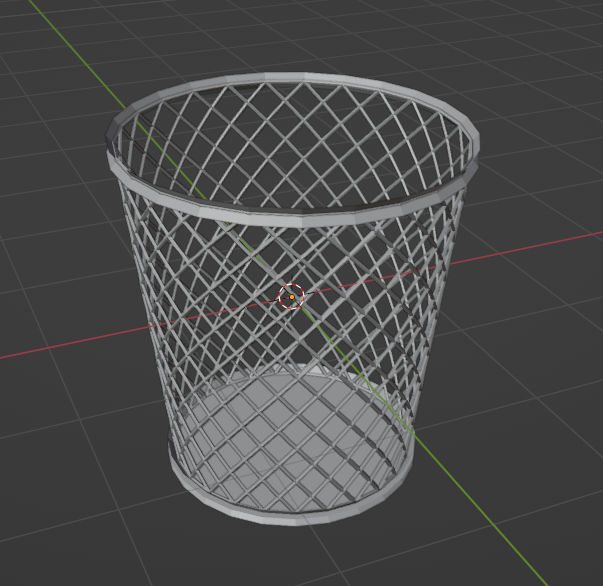
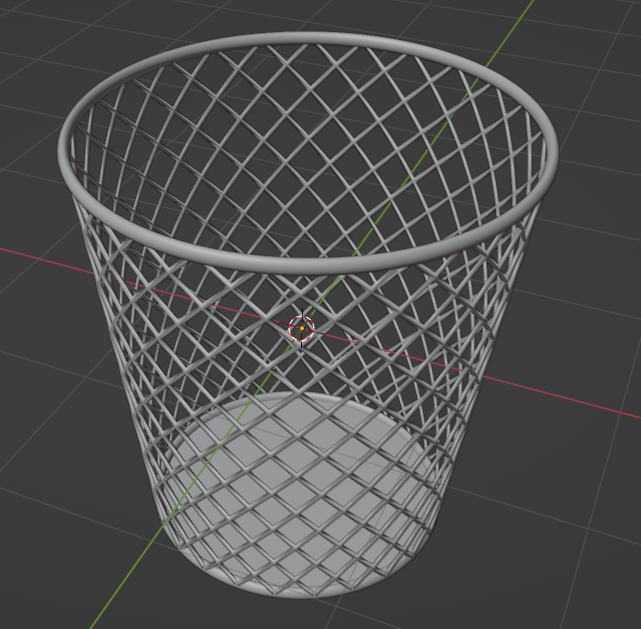
Site updated: 2022-10-20 11:27:49

diff --git a/2022/10/16/修改器/index.html b/2022/10/16/修改器/index.html
@@ -39,8 +39,11 @@
 <meta property="og:image" content="http://example.com/2022/10/16/%E4%BF%AE%E6%94%B9%E5%99%A8/10.png">
 <meta property="og:image" content="http://example.com/2022/10/16/%E4%BF%AE%E6%94%B9%E5%99%A8/11.png">
 <meta property="og:image" content="http://example.com/2022/10/16/%E4%BF%AE%E6%94%B9%E5%99%A8/12.png">
+<meta property="og:image" content="http://example.com/2022/10/16/%E4%BF%AE%E6%94%B9%E5%99%A8/13.png">
+<meta property="og:image" content="http://example.com/2022/10/16/%E4%BF%AE%E6%94%B9%E5%99%A8/14.png">
+<meta property="og:image" content="http://example.com/2022/10/16/%E4%BF%AE%E6%94%B9%E5%99%A8/15.png">
 <meta property="article:published_time" content="2022-10-16T13:07:14.000Z">
-<meta property="article:modified_time" content="2022-10-19T07:27:36.156Z">
+<meta property="article:modified_time" content="2022-10-20T03:27:28.302Z">
 <meta property="article:author" content="一个废物捏">
 <meta property="article:tag" content="Blender">
 <meta name="twitter:card" content="summary">
@@ -121,7 +124,7 @@
       <div class="sidebar-panel-container">
         <!--noindex-->
         <div class="post-toc-wrap sidebar-panel">
-            <div class="post-toc animated"><ol class="nav"><li class="nav-item nav-level-1"><a class="nav-link" href="#%E4%BF%AE%E6%94%B9%E5%99%A8"><span class="nav-number">1.</span> <span class="nav-text">修改器</span></a><ol class="nav-child"><li class="nav-item nav-level-2"><a class="nav-link" href="#%E9%98%B5%E5%88%97%E4%BF%AE%E6%94%B9%E5%99%A8"><span class="nav-number">1.1.</span> <span class="nav-text">阵列修改器</span></a></li><li class="nav-item nav-level-2"><a class="nav-link" href="#%E9%95%9C%E5%83%8F%E4%BF%AE%E6%94%B9%E5%99%A8"><span class="nav-number">1.2.</span> <span class="nav-text">镜像修改器</span></a></li><li class="nav-item nav-level-2"><a class="nav-link" href="#%E5%B8%83%E5%B0%94%E4%BF%AE%E6%94%B9%E5%99%A8"><span class="nav-number">1.3.</span> <span class="nav-text">布尔修改器</span></a></li><li class="nav-item nav-level-2"><a class="nav-link" href="#%E7%BA%BF%E6%A1%86%E4%BF%AE%E6%94%B9%E5%99%A8"><span class="nav-number">1.4.</span> <span class="nav-text">线框修改器</span></a></li></ol></li></ol></div>
+            <div class="post-toc animated"><ol class="nav"><li class="nav-item nav-level-1"><a class="nav-link" href="#%E4%BF%AE%E6%94%B9%E5%99%A8"><span class="nav-number">1.</span> <span class="nav-text">修改器</span></a><ol class="nav-child"><li class="nav-item nav-level-2"><a class="nav-link" href="#%E9%98%B5%E5%88%97%E4%BF%AE%E6%94%B9%E5%99%A8"><span class="nav-number">1.1.</span> <span class="nav-text">阵列修改器</span></a></li><li class="nav-item nav-level-2"><a class="nav-link" href="#%E9%95%9C%E5%83%8F%E4%BF%AE%E6%94%B9%E5%99%A8"><span class="nav-number">1.2.</span> <span class="nav-text">镜像修改器</span></a></li><li class="nav-item nav-level-2"><a class="nav-link" href="#%E5%B8%83%E5%B0%94%E4%BF%AE%E6%94%B9%E5%99%A8"><span class="nav-number">1.3.</span> <span class="nav-text">布尔修改器</span></a></li><li class="nav-item nav-level-2"><a class="nav-link" href="#%E7%BA%BF%E6%A1%86%E4%BF%AE%E6%94%B9%E5%99%A8"><span class="nav-number">1.4.</span> <span class="nav-text">线框修改器</span></a></li><li class="nav-item nav-level-2"><a class="nav-link" href="#%E8%A1%A8%E9%9D%A2%E7%BB%86%E5%88%86%E4%BF%AE%E6%94%B9%E5%99%A8"><span class="nav-number">1.5.</span> <span class="nav-text">表面细分修改器</span></a></li></ol></li></ol></div>
         </div>
         <!--/noindex-->
 
@@ -212,7 +215,7 @@
           <i class="far fa-calendar-check"></i>
         </span>
         <span class="post-meta-item-text">Edited on</span>
-        <time title="Modified: 2022-10-19 15:27:36" itemprop="dateModified" datetime="2022-10-19T15:27:36+08:00">2022-10-19</time>
+        <time title="Modified: 2022-10-20 11:27:28" itemprop="dateModified" datetime="2022-10-20T11:27:28+08:00">2022-10-20</time>
       </span>
 
   
@@ -257,6 +260,14 @@
 <img src="/2022/10/16/%E4%BF%AE%E6%94%B9%E5%99%A8/11.png" class>
 <p>利用反细分，将正方形网状结构转换为菱形网状结构。</p>
 <img src="/2022/10/16/%E4%BF%AE%E6%94%B9%E5%99%A8/12.png" class>
+<h2 id="表面细分修改器">表面细分修改器</h2>
+<img src="/2022/10/16/%E4%BF%AE%E6%94%B9%E5%99%A8/13.png" class>
+<p>细分和过渡。<br>
+将物体所有面进行细分，当相邻的两个面的法向不同时，调整面的法向，使得整个物体变得更圆滑细腻。<br>
+视图层级为1时，一个面分成4个面。<br>
+视图层级为2时，一个面分成16个面。<br>
+### 卡线限制表面细分修改器范围 <img src="/2022/10/16/%E4%BF%AE%E6%94%B9%E5%99%A8/14.png" class> 通过卡线来限制圆滑范围 <img src="/2022/10/16/%E4%BF%AE%E6%94%B9%E5%99%A8/15.png" class> ### 设置边的折痕控制表面细分修改器 折痕是边的一个属性。设置为1提醒表面细分修改器不在此做过渡，进而产生一个类似折痕的效果。 设置为0进行完全过渡。<br>
+选中边右键设置，在边的n面板中也可以设置。</p>
 
     </div>
 

diff --git a/index.html b/index.html
@@ -669,7 +669,7 @@
           <i class="far fa-calendar-check"></i>
         </span>
         <span class="post-meta-item-text">Edited on</span>
-        <time title="Modified: 2022-10-19 15:27:36" itemprop="dateModified" datetime="2022-10-19T15:27:36+08:00">2022-10-19</time>
+        <time title="Modified: 2022-10-20 11:27:28" itemprop="dateModified" datetime="2022-10-20T11:27:28+08:00">2022-10-20</time>
       </span>
 
   
@@ -714,6 +714,14 @@
 <img src="/2022/10/16/%E4%BF%AE%E6%94%B9%E5%99%A8/11.png" class>
 <p>利用反细分，将正方形网状结构转换为菱形网状结构。</p>
 <img src="/2022/10/16/%E4%BF%AE%E6%94%B9%E5%99%A8/12.png" class>
+<h2 id="表面细分修改器">表面细分修改器</h2>
+<img src="/2022/10/16/%E4%BF%AE%E6%94%B9%E5%99%A8/13.png" class>
+<p>细分和过渡。<br>
+将物体所有面进行细分，当相邻的两个面的法向不同时，调整面的法向，使得整个物体变得更圆滑细腻。<br>
+视图层级为1时，一个面分成4个面。<br>
+视图层级为2时，一个面分成16个面。<br>
+### 卡线限制表面细分修改器范围 <img src="/2022/10/16/%E4%BF%AE%E6%94%B9%E5%99%A8/14.png" class> 通过卡线来限制圆滑范围 <img src="/2022/10/16/%E4%BF%AE%E6%94%B9%E5%99%A8/15.png" class> ### 设置边的折痕控制表面细分修改器 折痕是边的一个属性。设置为1提醒表面细分修改器不在此做过渡，进而产生一个类似折痕的效果。 设置为0进行完全过渡。<br>
+选中边右键设置，在边的n面板中也可以设置。</p>
 
       
     </div>
